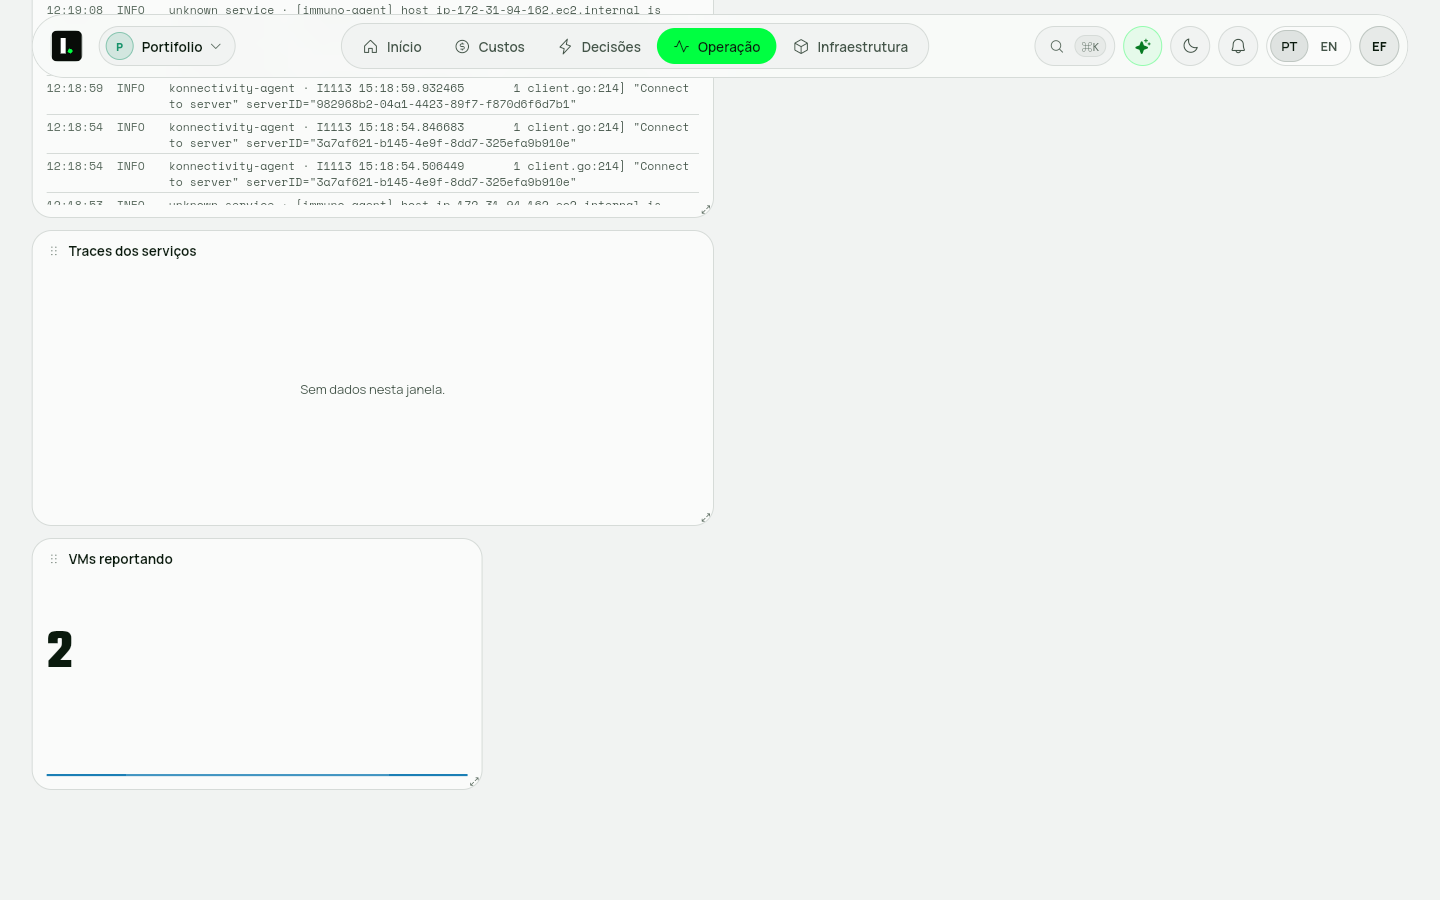
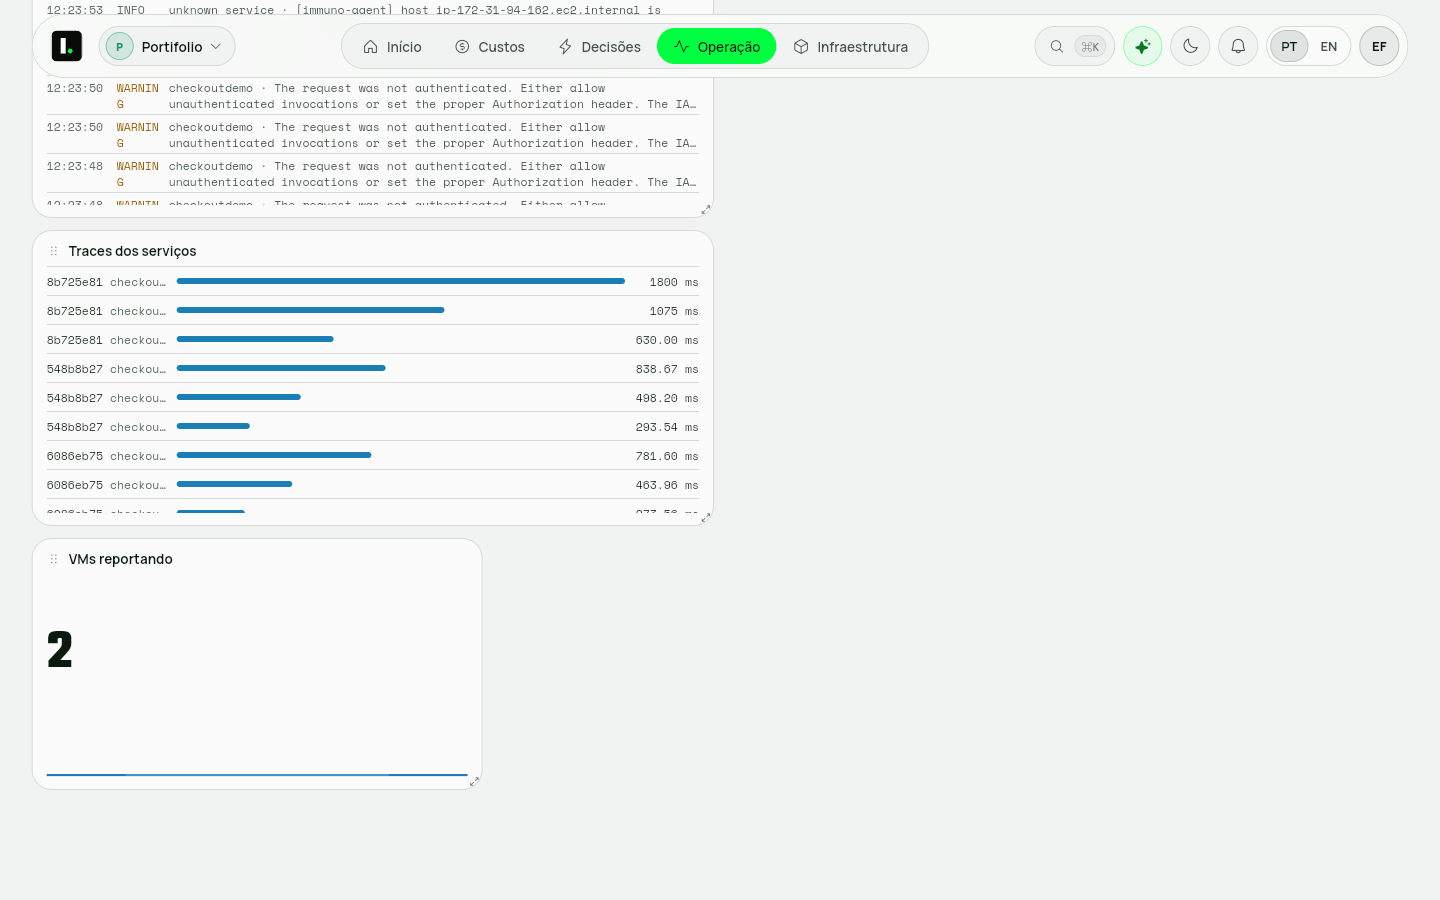
docs: print do painel de traces com dados

Changed region(s): [[0.0312, 0.28, 0.4688, 0.5911], [0.0625, 0.0933, 0.4688, 0.2178], [0.4375, 0.3733, 0.4688, 0.56]]

diff --git a/index.html b/index.html
@@ -1544,8 +1544,8 @@ exports.handler = async (event) =&gt; {
         <figcaption>Dashboard salvo com métricas e logs</figcaption>
       </figure>
       <figure class="shot">
-        <img src="img/dashboards/db14.png" alt="Traces e número único no mesmo dashboard" style="width:100%;border-radius:12px;display:block">
-        <figcaption>Traces e número único no mesmo dashboard</figcaption>
+        <img src="img/dashboards/db14.png" alt="Traces do checkout-api com a duração de cada span, e o número único" style="width:100%;border-radius:12px;display:block">
+        <figcaption>Traces do checkout-api com a duração de cada span, e o número único</figcaption>
       </figure>
       </li>
     </ol>
